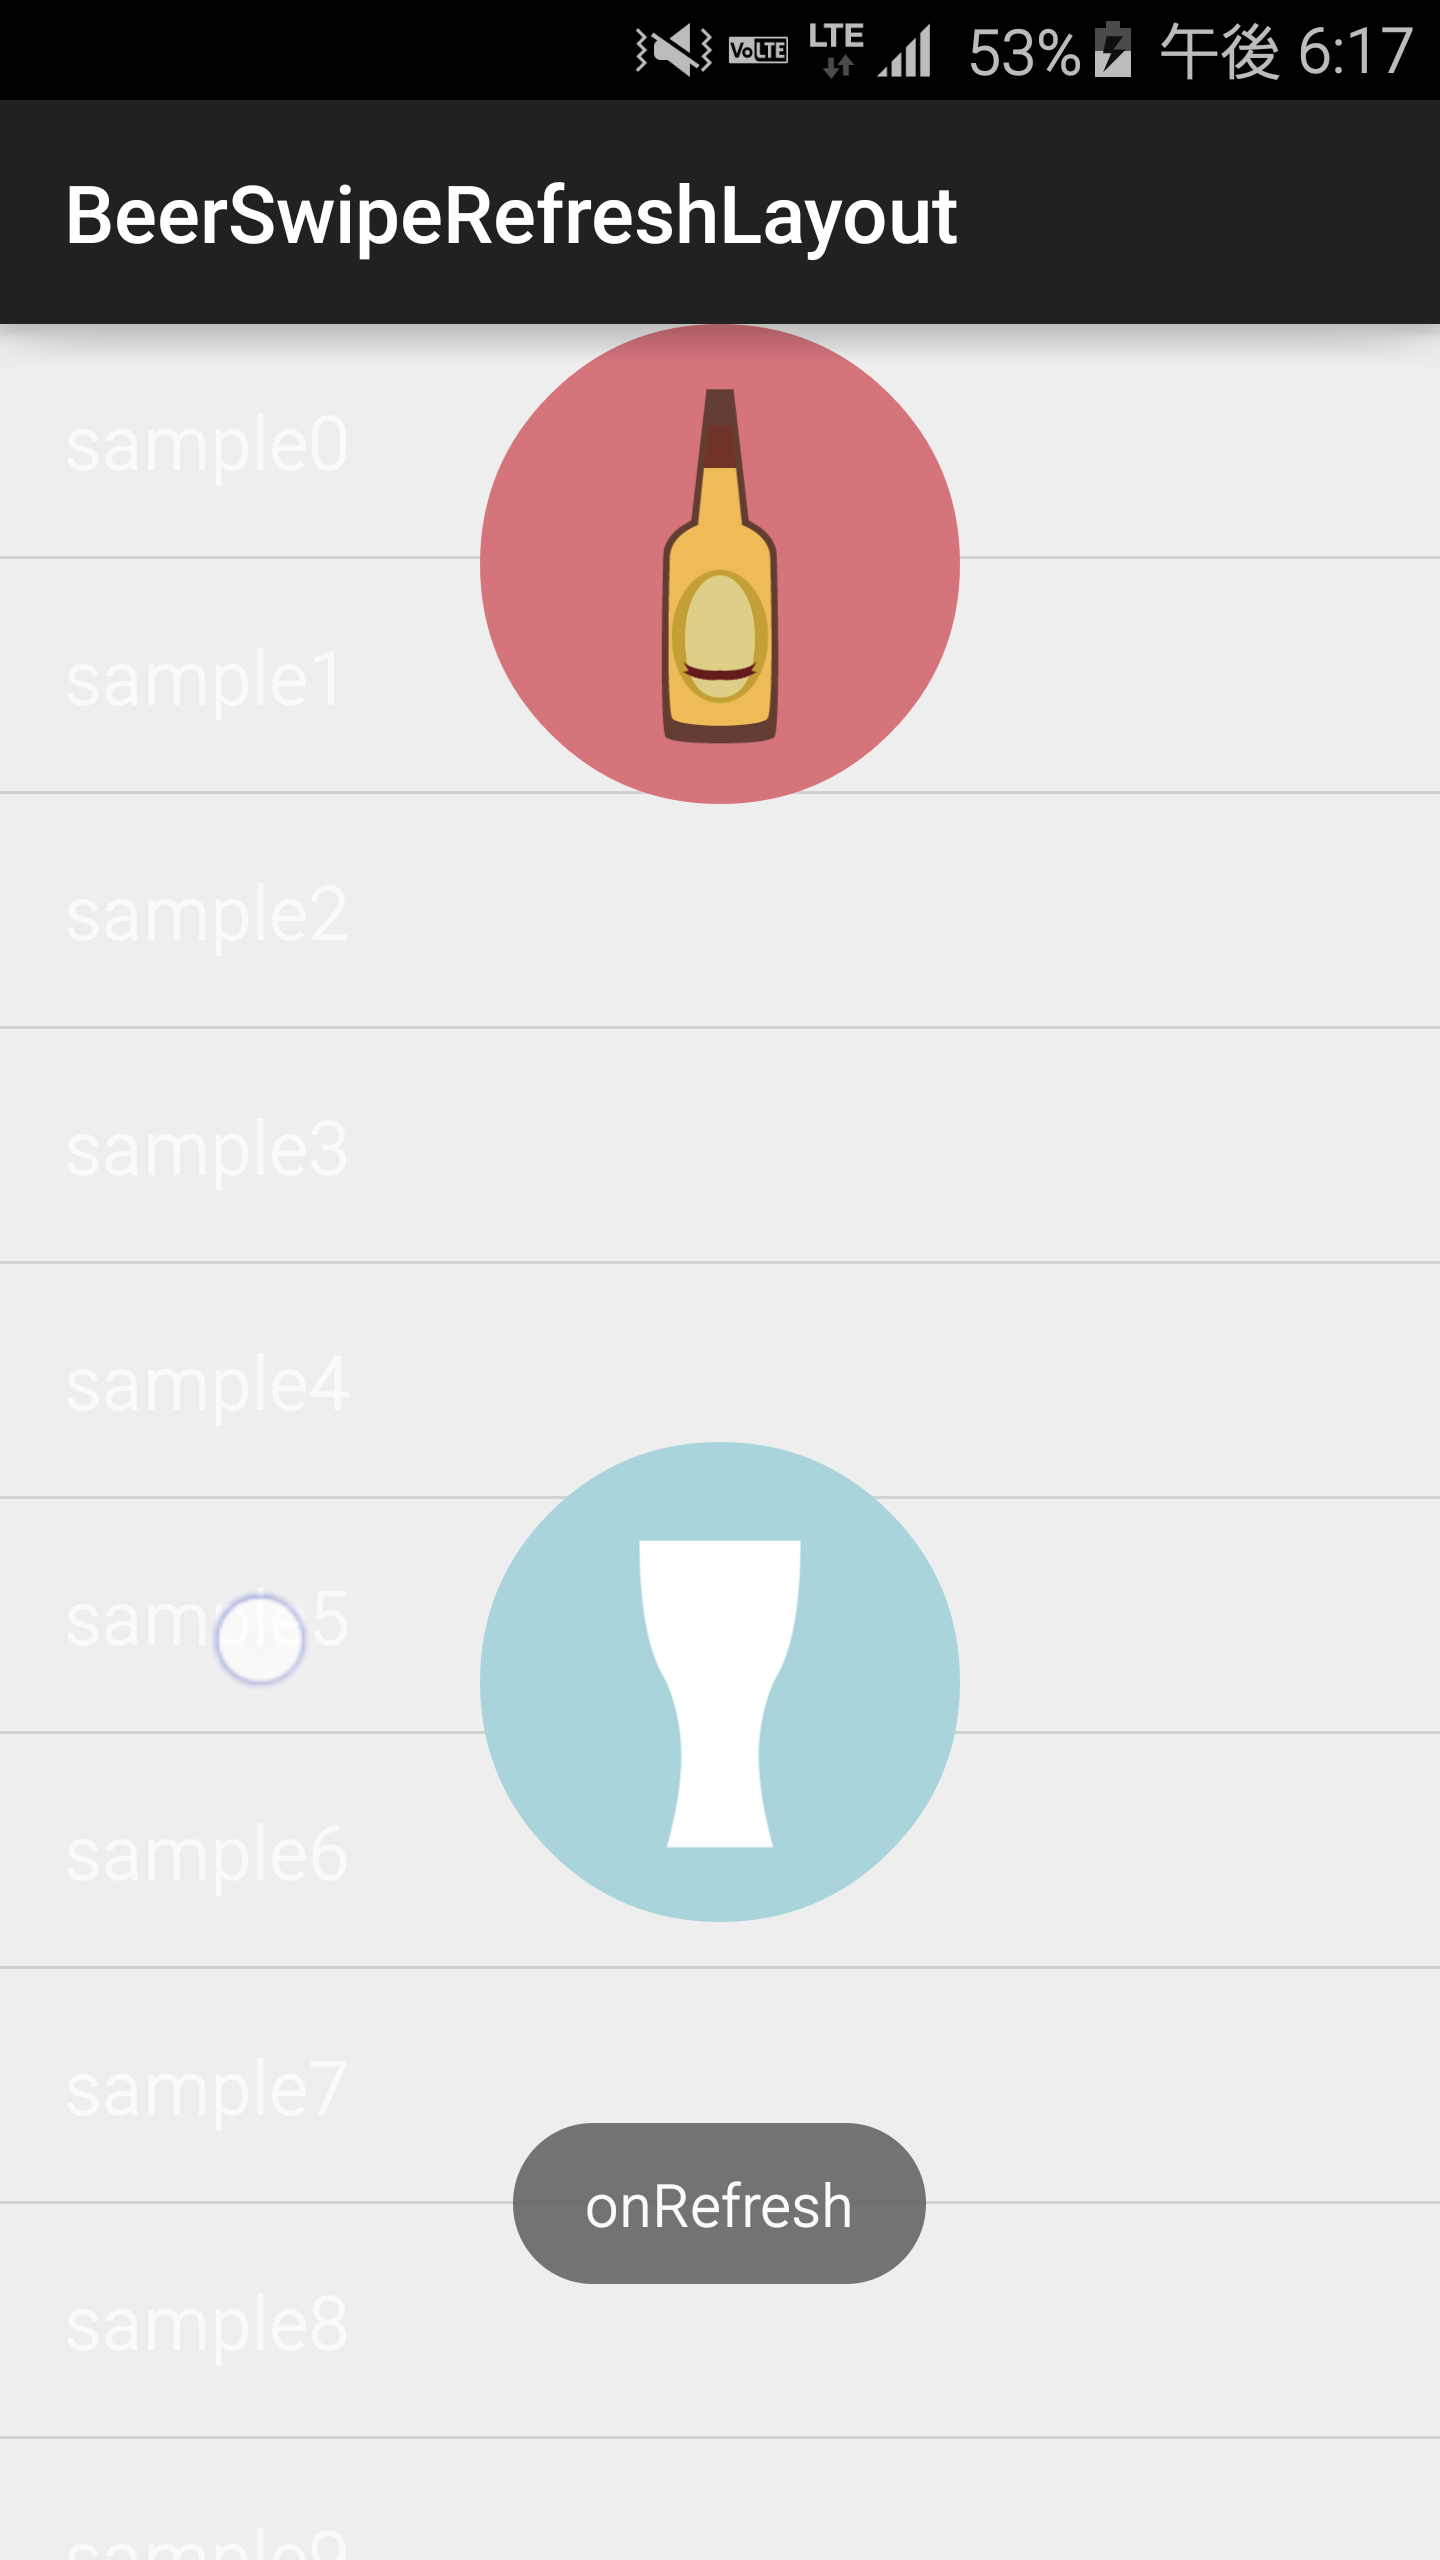
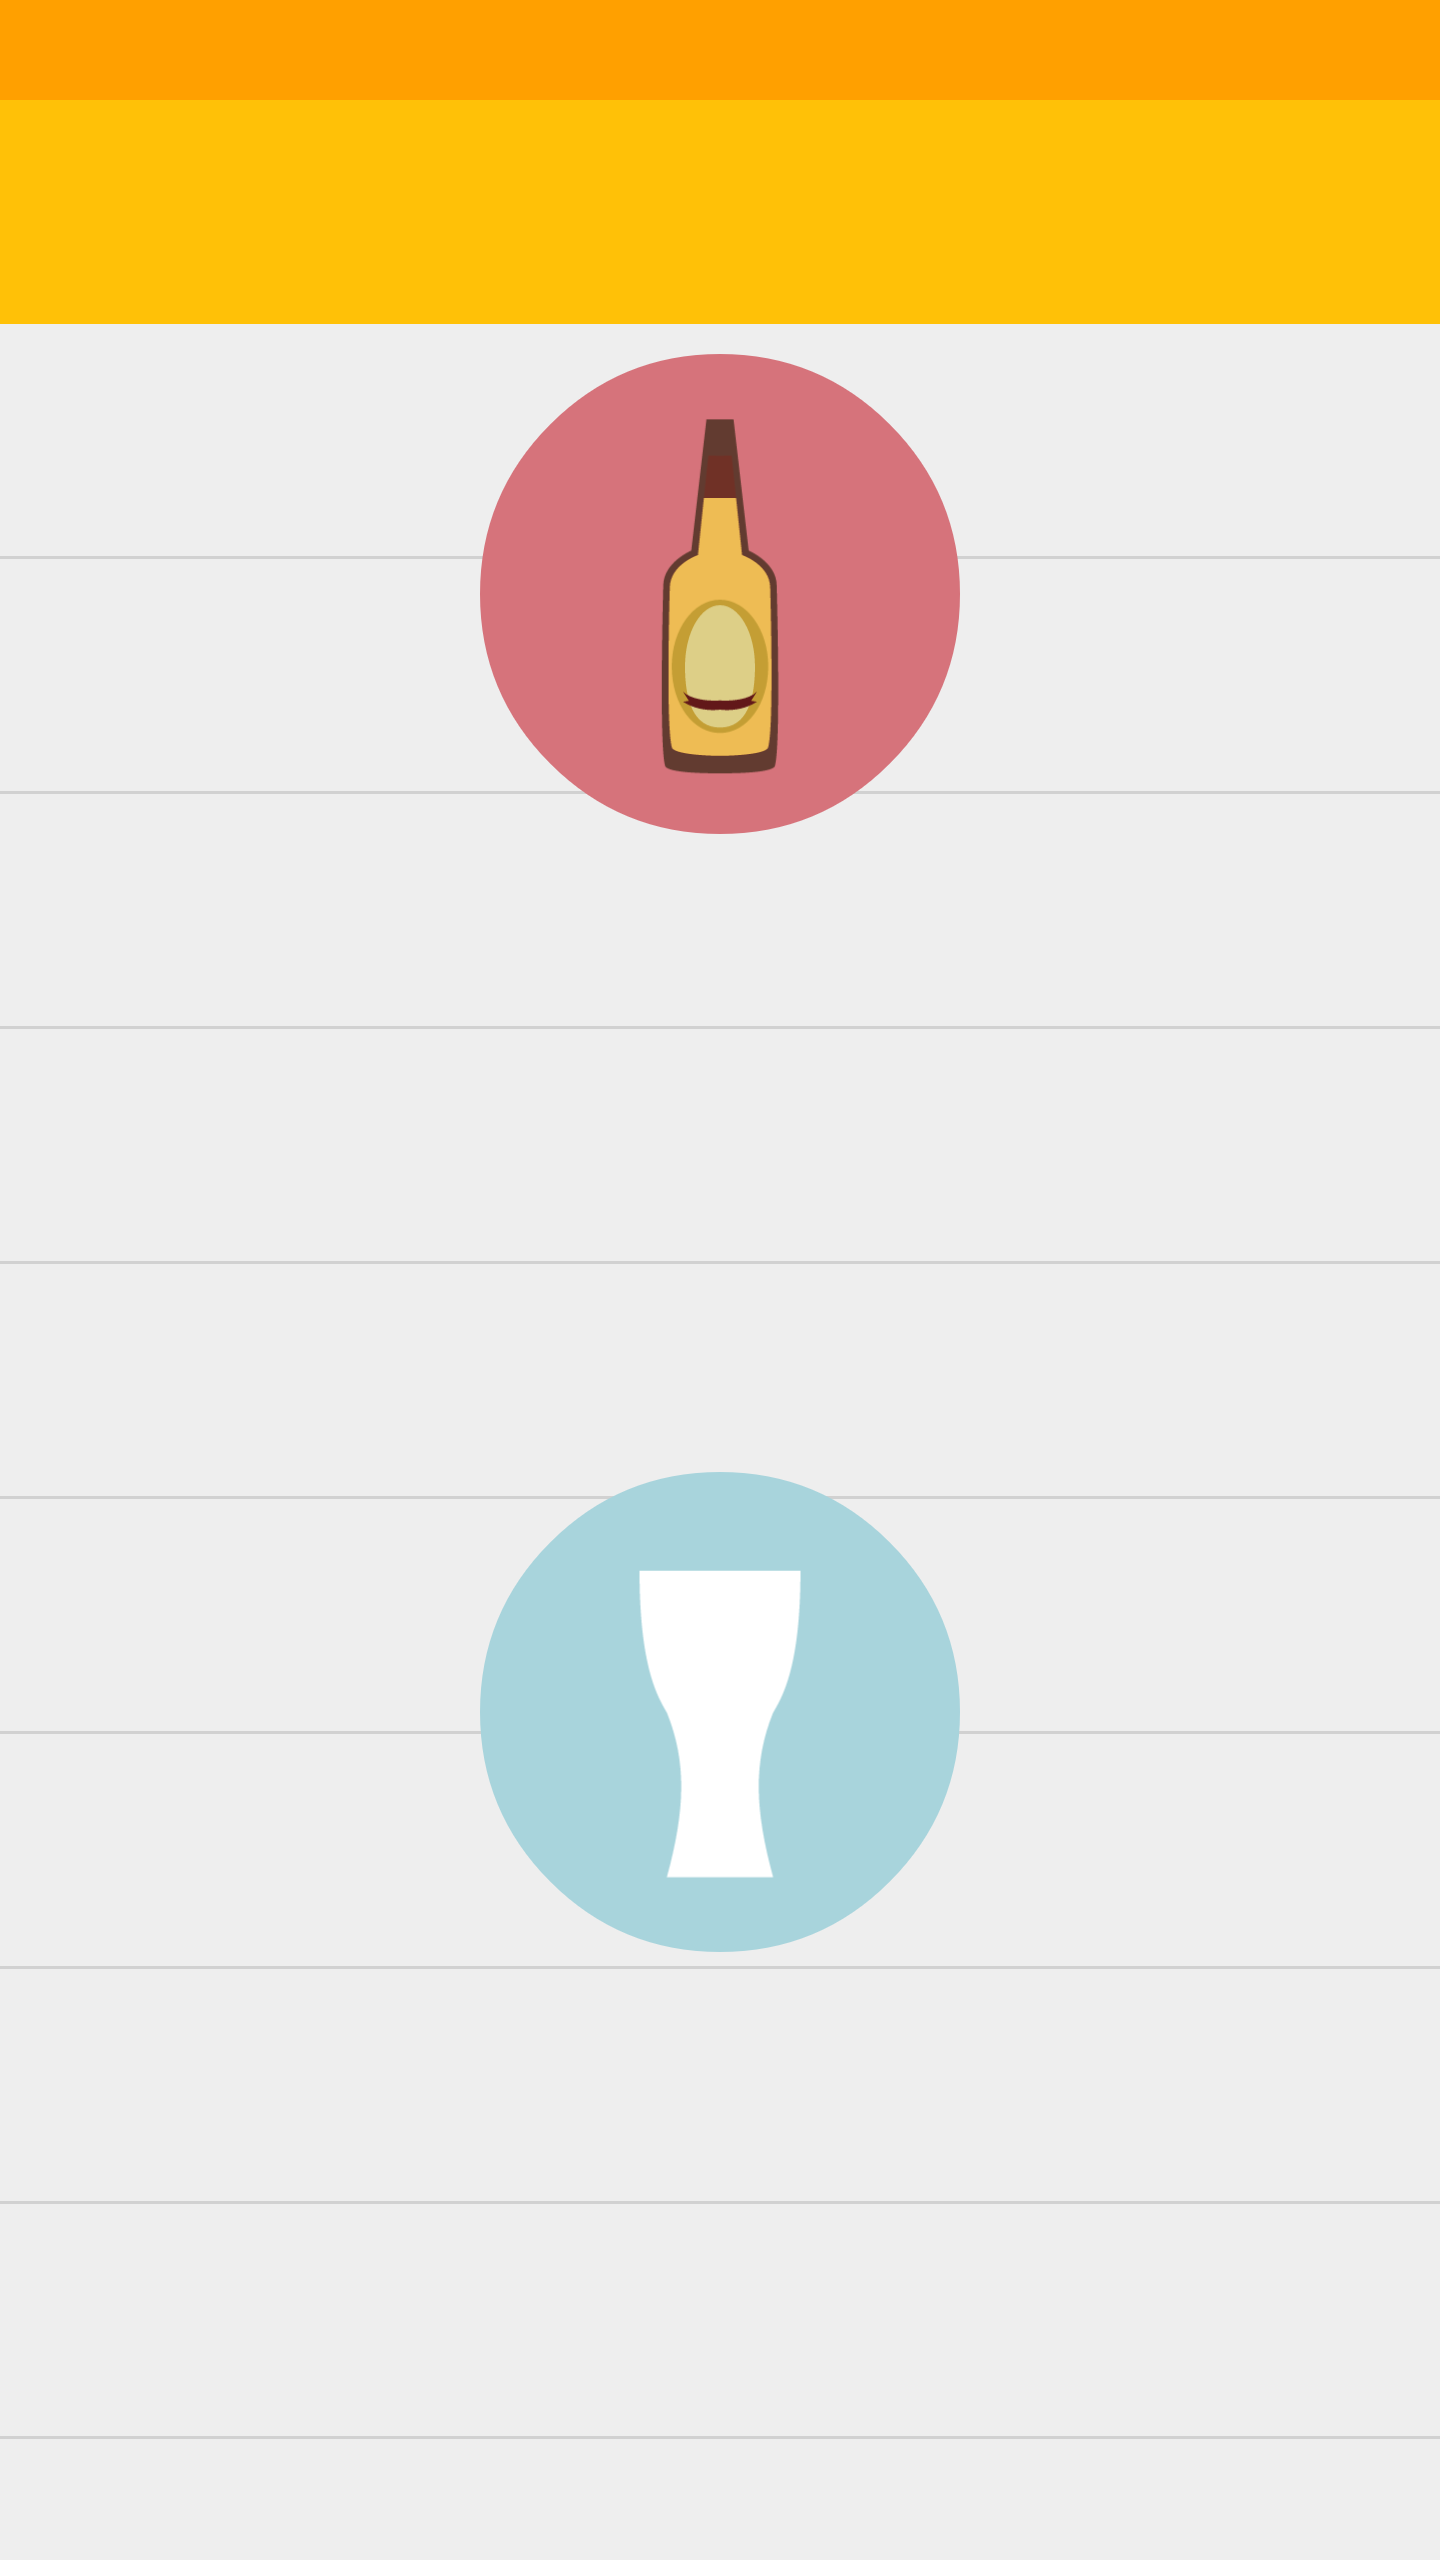
Update sample

diff --git a/library/src/main/java/jp/co/recruit_lifestyle/android/widget/BeerSwipeRefreshLayout.java b/library/src/main/java/jp/co/recruit_lifestyle/android/widget/BeerSwipeRefreshLayout.java
@@ -29,7 +29,6 @@ import android.view.MotionEvent;
 import android.view.View;
 import android.view.ViewConfiguration;
 import android.view.ViewGroup;
-import android.widget.AbsListView;
 
 /**
  * @author amyu_san
@@ -96,7 +95,7 @@ public class BeerSwipeRefreshLayout extends ViewGroup implements SensorEventList
     final int childRight = thisWidth - getPaddingRight();
     final int childBottom = thisHeight - getPaddingBottom();
     mTarget.layout(getPaddingLeft(), getPaddingTop(), childRight, childBottom);
-    mBeerView.layout(l, t, r, b);
+    mBeerView.layout(getPaddingLeft(), getPaddingTop() + 30, childRight, childBottom + 30);
     mBeerView.bringToFront();
   }
 
@@ -107,6 +106,7 @@ public class BeerSwipeRefreshLayout extends ViewGroup implements SensorEventList
     mTarget.measure(
         makeMeasureSpecExactly(getMeasuredWidth() - (getPaddingLeft() + getPaddingRight())),
         makeMeasureSpecExactly(getMeasuredHeight() - (getPaddingTop() + getPaddingBottom())));
+    mBeerView.measure(widthMeasureSpec, heightMeasureSpec);
   }
 
   @Override protected void onAttachedToWindow() {
@@ -122,9 +122,10 @@ public class BeerSwipeRefreshLayout extends ViewGroup implements SensorEventList
   @Override public boolean onInterceptTouchEvent(MotionEvent event) {
     ensureTarget();
 
-    if (!isEnabled() || canChildScrollUp() || isRefreshing()) {
+    if (!isEnabled()) {
       return false;
     }
+
     if (mBeerView.isReverseAnimationRunning() || mBeerView.isMax()) {
       return false;
     }
@@ -159,8 +160,7 @@ public class BeerSwipeRefreshLayout extends ViewGroup implements SensorEventList
         final float yDiff = currentY - mFirstTouchDownPointY;
 
         // State is changed to drag if over slop
-        if (yDiff > ViewConfiguration.get(getContext())
-            .getScaledTouchSlop() && !isRefreshing()) {
+        if (yDiff > ViewConfiguration.get(getContext()).getScaledTouchSlop()) {
           return true;
         }
 
@@ -175,9 +175,11 @@ public class BeerSwipeRefreshLayout extends ViewGroup implements SensorEventList
   }
 
   @Override public boolean onTouchEvent(@NonNull MotionEvent event) {
-    if (!isEnabled() || canChildScrollUp() /*|| isRefreshing()*/) {
+    if (!isEnabled()) {
       return false;
     }
+
+
     if (mBeerView.isReverseAnimationRunning() || mBeerView.isMax()) {
       return false;
     }
@@ -206,6 +208,7 @@ public class BeerSwipeRefreshLayout extends ViewGroup implements SensorEventList
           mBeerView.drawGlass(0);
           return false;
         } else {
+          mBeerView.setAlpha(1);
           setRefreshing(true, true);
         }
         float touchMoveDegree = Math.max(-(diffY - mFirstTouchDownPointY) / 3, -110);
@@ -232,9 +235,6 @@ public class BeerSwipeRefreshLayout extends ViewGroup implements SensorEventList
         touchMoveDegree = Math.max(-(diffY - mFirstTouchDownPointY) / 3, -110);
         if (!isRefreshing()) {
           mBeerView.startDisappearAnimator();
-        }
-        if (touchMoveDegree > 0) {
-          return false;
         }
 
         mBeerView.startReverseBottleAnimator(touchMoveDegree);
@@ -333,24 +333,6 @@ public class BeerSwipeRefreshLayout extends ViewGroup implements SensorEventList
 
     if (mTarget == null) {
       throw new IllegalStateException("This view must have at least one AbsListView");
-    }
-  }
-
-  public boolean canChildScrollUp() {
-    if (mTarget == null) {
-      return false;
-    }
-
-    if (android.os.Build.VERSION.SDK_INT < 14) {
-      if (mTarget instanceof AbsListView) {
-        final AbsListView absListView = (AbsListView) mTarget;
-        return absListView.getChildCount() > 0 && (absListView.getFirstVisiblePosition() > 0
-            || absListView.getChildAt(0).getTop() < absListView.getPaddingTop());
-      } else {
-        return mTarget.getScrollY() > 0;
-      }
-    } else {
-      return ViewCompat.canScrollVertically(mTarget, -1);
     }
   }
 

diff --git a/sample/src/main/java/jp/co/recruit_lifestyle/sample/MainActivity.java b/sample/src/main/java/jp/co/recruit_lifestyle/sample/MainActivity.java
@@ -3,9 +3,10 @@ package jp.co.recruit_lifestyle.sample;
 import android.os.Bundle;
 import android.os.Handler;
 import android.support.v7.app.AppCompatActivity;
+import android.view.Window;
+import android.view.WindowManager;
 import android.widget.ArrayAdapter;
 import android.widget.ListView;
-import android.widget.Toast;
 import java.util.ArrayList;
 import jp.co.recruit_lifestyle.android.widget.BeerSwipeRefreshLayout;
 
@@ -16,26 +17,27 @@ public class MainActivity extends AppCompatActivity {
   private BeerSwipeRefreshLayout mBeerSwipeRefreshLayout;
 
   @Override protected void onCreate(Bundle savedInstanceState) {
+    requestWindowFeature(Window.FEATURE_NO_TITLE);
+    getWindow().addFlags(WindowManager.LayoutParams.FLAG_FULLSCREEN);
+
     super.onCreate(savedInstanceState);
     setContentView(R.layout.activity_main);
 
     initView();
     setSampleData();
-
-
   }
 
   private void initView() {
-    mBeerSwipeRefreshLayout = (BeerSwipeRefreshLayout) findViewById(R.id.main_beer_view);
+    mBeerSwipeRefreshLayout = (BeerSwipeRefreshLayout) findViewById(R.id.main_beer);
     mBeerSwipeRefreshLayout.setOnRefreshListener(new BeerSwipeRefreshLayout.OnRefreshListener() {
       @Override public void onRefresh() {
-        Toast.makeText(getApplicationContext(), "onRefresh", Toast.LENGTH_SHORT).show();
+        //Toast.makeText(getApplicationContext(), "onRefresh", Toast.LENGTH_SHORT).show();
         new Handler().postDelayed(new Runnable() {
           @Override public void run() {
             mBeerSwipeRefreshLayout.setRefreshing(false);
-            Toast.makeText(getApplicationContext(), "setRefreshing(false)", Toast.LENGTH_SHORT).show();
+            //Toast.makeText(getApplicationContext(), "setRefreshing(false)", Toast.LENGTH_SHORT).show();
           }
-        }, 10000);
+        }, 7000);
       }
     });
     mListview = (ListView) findViewById(R.id.main_list);
@@ -44,7 +46,7 @@ public class MainActivity extends AppCompatActivity {
   private void setSampleData() {
     ArrayList<String> sampleArrayStr = new ArrayList<>();
     for (int i = 0; i < 60; i++) {
-      sampleArrayStr.add("sample" + i);
+      sampleArrayStr.add("");
     }
     ArrayAdapter<String> adapter = new ArrayAdapter<>(getApplicationContext(), android.R.layout.simple_list_item_1, sampleArrayStr);
     mListview.setAdapter(adapter);
